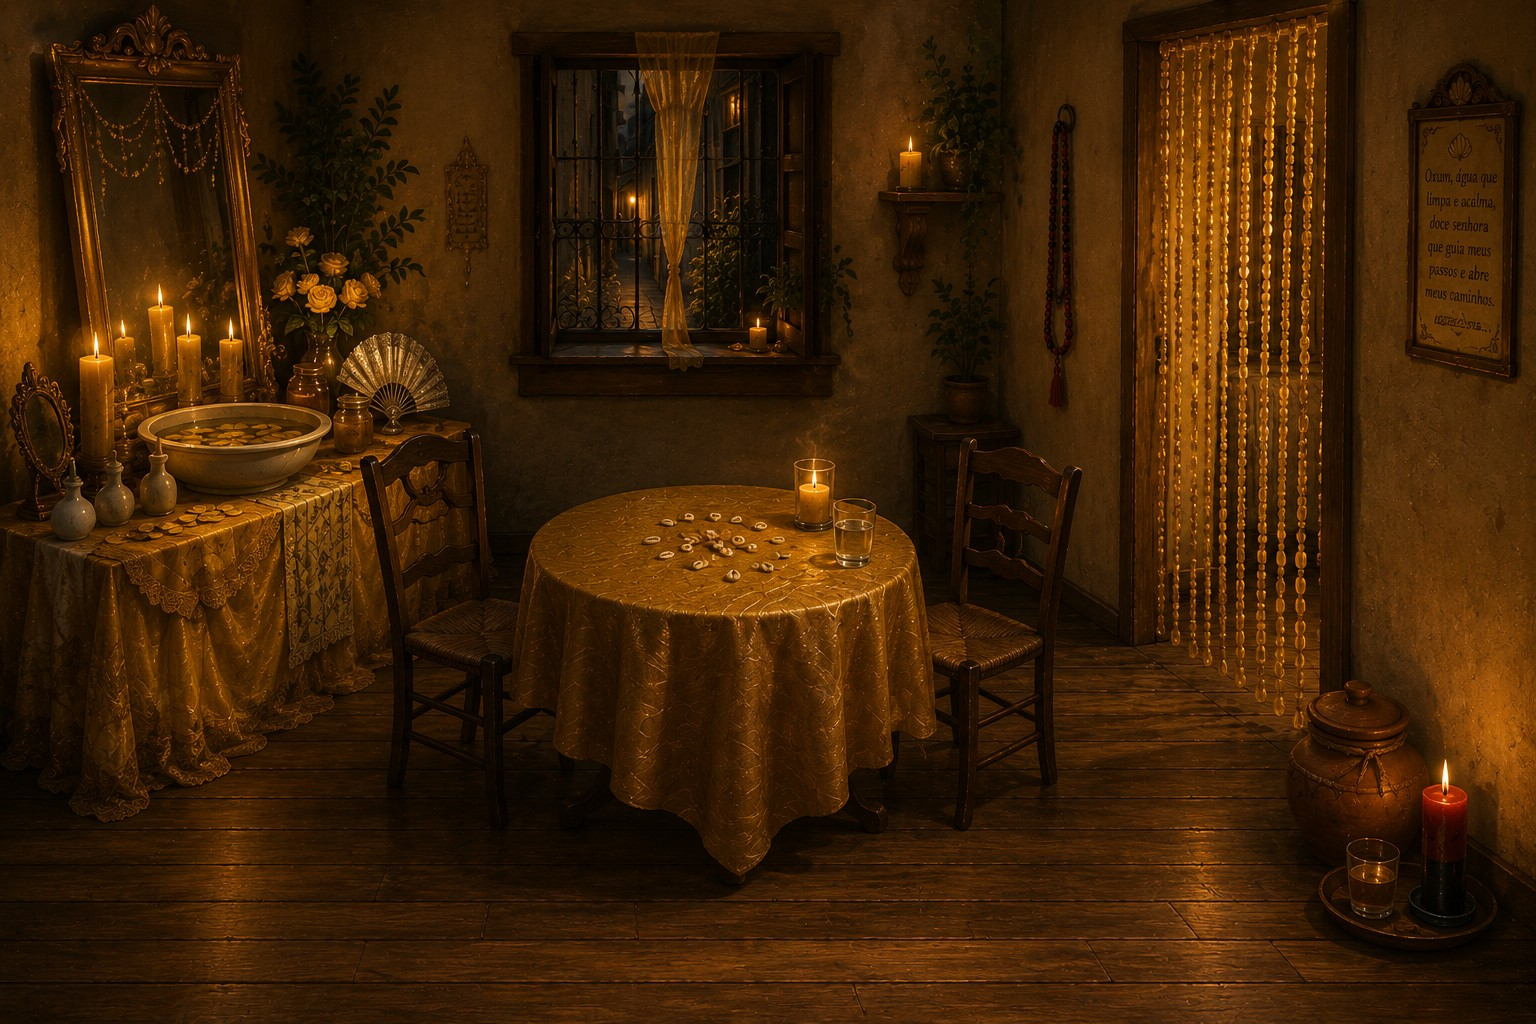
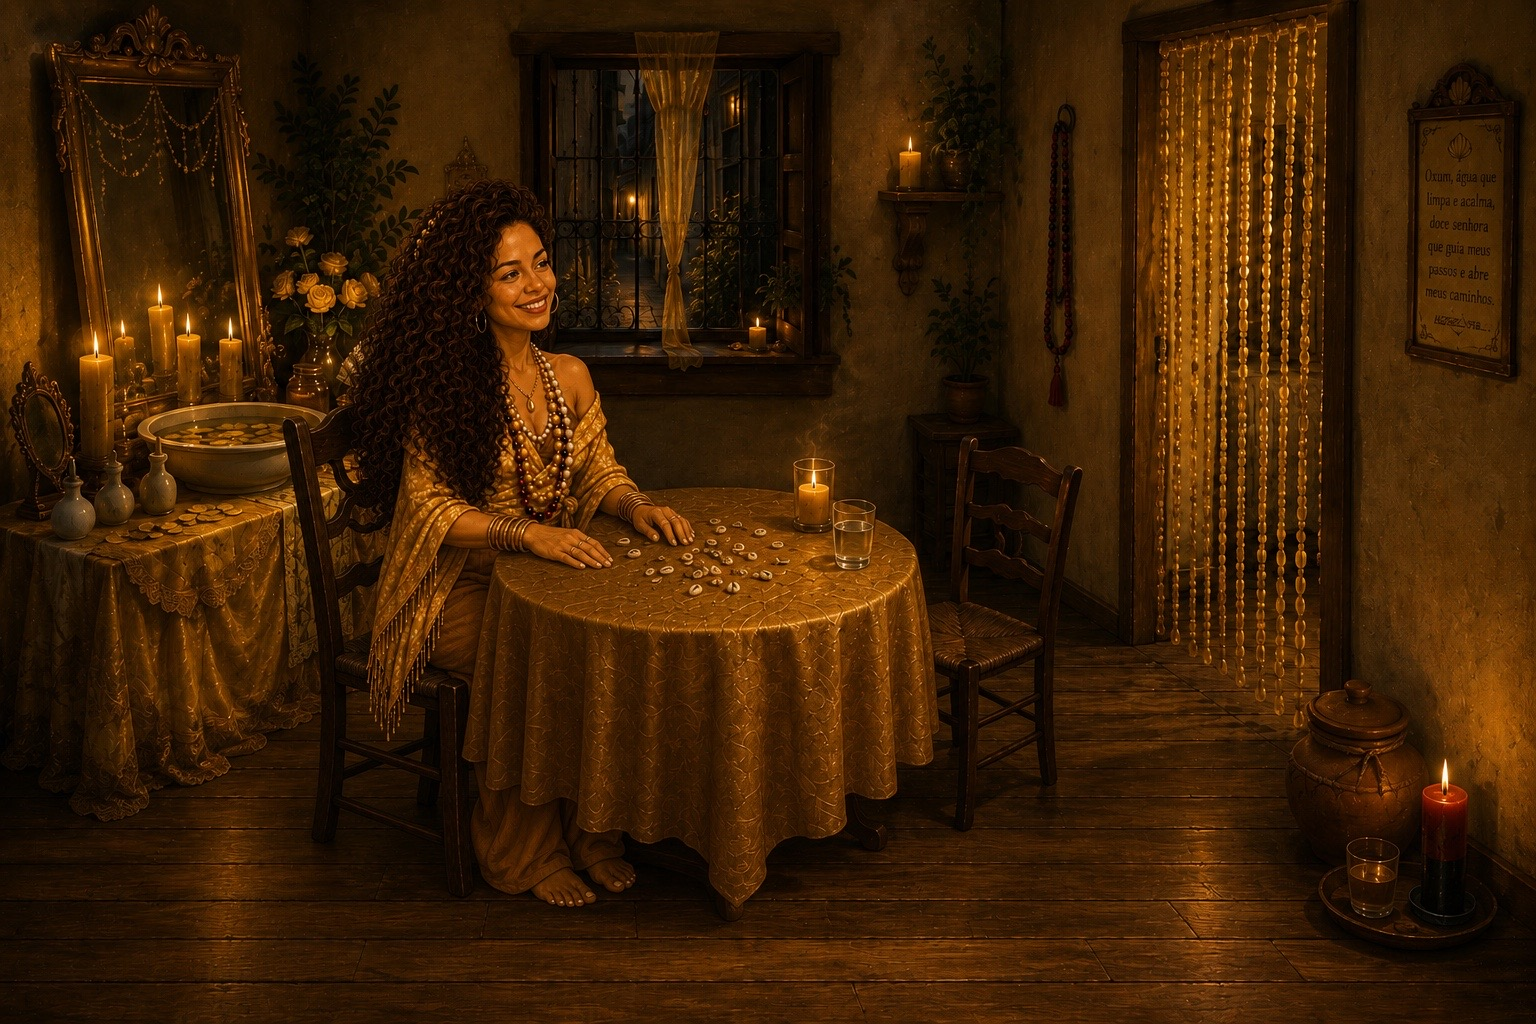
Bake Yara into the búzios back room + "goes to the back" state
Replace the composited seated-Yara sprite with a plate that has her painted
in at the reading table (legs under the cloth, sized to the furniture) — a
billboard can only draw on top of the baked table, never behind it, so her
legs could never tuck under as a sprite.

- aguas-back: drop the yara_seated occupant; bump player charScale 5.5 → 8 so
  the incoming avatar reads at the baked host's adult scale (head above the
  chair back), not child-sized.
- yaraAway state: entering the back room hides her front-counter sprite (she
  "went to the back"); it clears when you leave the botanica for the street,
  so she's back at the counter next visit. Also reset on character switch.
- Document the baked-host + anti-double-presence pattern in CLAUDE.md (7d).

Verified via Playwright: front counter shows/hides Yara across the flow, back
room shows the baked plate with the player correctly proportioned, no double
Yara; landscape + portrait both read well.

Claude-Session: https://claude.ai/code/session_01MzT91WcyqemncboiCffQLx

diff --git a/src/game/renderer.ts b/src/game/renderer.ts
@@ -186,11 +186,11 @@ const AREAS: Record<string, AreaView> = {
     floorTop: 560, floorBot: 980, // the open floor in front of the reading table
     halfTop: 360, halfBot: 640,
     cx: 768, entryX: 980, entryY: 860, // arrive just inside the curtain doorway (right), facing in
-    scaleBack: 0.82, charScale: 5.5, // people sized to the chairs/table (~2× chair-back height)
-    // Yara seated in the LEFT chair (her sprite carries its own chair, aligned over the plate's
-    // left chair; she faces right toward the table). Foot-Y anchored so her feet land on the floor
-    // in front of the chair — not on the tabletop — and scaled to read as an adult across the shells.
-    occupants: [{ stem: "yara_seated", x: 425, y: 758, scale: 0.85 }],
+    // People sized to match the BAKED seated Yara + the chairs — an adult standing at the empty
+    // right chair reads at Yara's scale (head above the chair back), not child-sized.
+    scaleBack: 0.82, charScale: 8.0,
+    // Yara is BAKED INTO this plate, seated at the reading table (she "goes to the back" for a
+    // reading — see readingActive). No sprite occupant here; the player sits in the empty RIGHT chair.
     exitTo: "aguas-front", // back through the beaded curtain → the front botanica
     // The doorway is the beaded curtain on the RIGHT, NOT the south edge — so exit at the curtain x
     // (walk right into it) and disable the walk-down exit, which would drop you out at a wall.
@@ -479,6 +479,11 @@ export class HollywoodRenderer {
   private trans: { to: string | null; t: number; swapped: boolean } | null = null;
   private roomReturn: { x: number; y: number } | null = null;
   private camReturn: { x: number; y: number; zoom: number } | null = null;
+  // "Yara is in the back giving a reading." Set when the player steps into the back consultation
+  // room (aguas-back, where she's baked into the plate), cleared when they leave the botanica for
+  // the street. While true, her front-counter sprite is hidden so she isn't in two places at once
+  // — she "got up and went to the back," and only returns to the counter after you leave + re-enter.
+  private yaraAway = false;
   // Active outfit per soul: soulId → sprite stem (see outfits.ts). Absent → wears its default
   // (stem = soul id). Swapping an entry changes which sprite (front + `_back`) drawNPC loads.
   private outfits = new Map<string, string>();
@@ -805,6 +810,7 @@ export class HollywoodRenderer {
       }
       // (room → room keeps the same roomReturn/camReturn so a later exit still lands outside.)
       if (pc && R) { pc.x = R.entryX; pc.y = R.entryY; }
+      if (to === "aguas-back") this.yaraAway = true; // she's gone to the back to read
       this.room = to;
       this.facingUp = true; // arrive facing into the scene
       // frame the room at cover-zoom (plate fills the viewport; can't see past its edges), centred
@@ -817,6 +823,7 @@ export class HollywoodRenderer {
       }
     } else {
       // room → overworld.
+      if (from === "aguas-front") this.yaraAway = false; // left the botanica → she's back at the counter next visit
       this.room = null;
       if (pc) {
         if (from === "overture-court") {
@@ -911,6 +918,7 @@ export class HollywoodRenderer {
     this.room = null;
     this.trans = null;
     this.moveTarget = null;
+    this.yaraAway = false; // fresh soul → Yara's back at her counter
     this.controlledId = id;
     this.held.clear();
     this.facingLeft = false;
@@ -1173,9 +1181,12 @@ export class HollywoodRenderer {
     };
     const drawOccupant = (oc: NonNullable<AreaView["occupants"]>[number]) =>
       this.drawRoomOccupant(oc.stem, oc.x, oc.y, (oc.scale ?? 1) * depthScaleAt(oc.y), oc.faceLeft ?? false);
+    // While Yara is "in the back" giving a reading, her front-counter sprite is hidden (she's baked
+    // into the back-room plate instead — she can't be in both places).
+    const occupants = (R.occupants ?? []).filter((oc) => !(this.yaraAway && oc.stem === "yara"));
     if (R.foreground) {
       // Counter-style room: occupants (keeper) BEHIND the foreground plate, player in FRONT of it.
-      for (const oc of R.occupants ?? []) drawOccupant(oc);
+      for (const oc of occupants) drawOccupant(oc);
       const fg = this.getAreaPlate(R, R.foreground, false); // overlay is a PNG (needs alpha)
       if (fg && fg.complete && fg.naturalWidth > 0) ctx.drawImage(fg, 0, pad, R.w, plateH);
       drawPlayer();
@@ -1183,7 +1194,7 @@ export class HollywoodRenderer {
       // Open room: player + occupants foot-Y sorted so you pass in front of / behind them.
       const acts: { y: number; draw: () => void }[] = [];
       if (pc) acts.push({ y: pc.y, draw: drawPlayer });
-      for (const oc of R.occupants ?? []) acts.push({ y: oc.y, draw: () => drawOccupant(oc) });
+      for (const oc of occupants) acts.push({ y: oc.y, draw: () => drawOccupant(oc) });
       acts.sort((a, b) => a.y - b.y);
       for (const a of acts) a.draw();
     }

diff --git a/CLAUDE.md b/CLAUDE.md
@@ -231,6 +231,21 @@ feet-anchored to one ground-Y, which is the sort key.
    their legs and the waist-on-counter proportion reads for free; the player stands in front. Size a
    new room by measuring its door/chair/counter in the plate and setting `charScale` so the rule holds.
 
+   **7d. A seated/posed host is BAKED INTO the plate, never a sprite — and a sprite can't go behind
+   baked furniture.** The room's furniture (table, counter, altar) lives in the backdrop plate, which
+   draws first; every character composites ON TOP via the foot-Y sort, so a sprite can never render
+   *behind* a painted table (its legs can't tuck under). For a static host who sits AT a table (Yara
+   at her búzios reading table, `aguas-back`), paint her into the plate — the art sizes her to the
+   furniture and hides her legs under the table for free. Then calibrate the *player's* `charScale`
+   so the incoming avatar reads at the baked host's scale (an adult standing at the empty chair: head
+   above the chair back, head ≈ the baked host's head), NOT child-sized. **Anti-double-presence:** a
+   host baked into a back room must be HIDDEN wherever else she appears while she's "there" — Yara's
+   front-counter `occupant` is filtered out while `yaraAway` is set (she "goes to the back" for a
+   reading on entering `aguas-back`, and only returns to the counter after you leave the botanica for
+   the street). The alternative to baking (keep her a sprite) is a `foreground` table-skirt overlay
+   like the counter — fiddlier to cut cleanly from a draped round table, so prefer baking for a
+   static host.
+
 ## Asset pipeline
 
 - Raw magenta/white-keyed source art lives in `art-src/` (NOT shipped).
